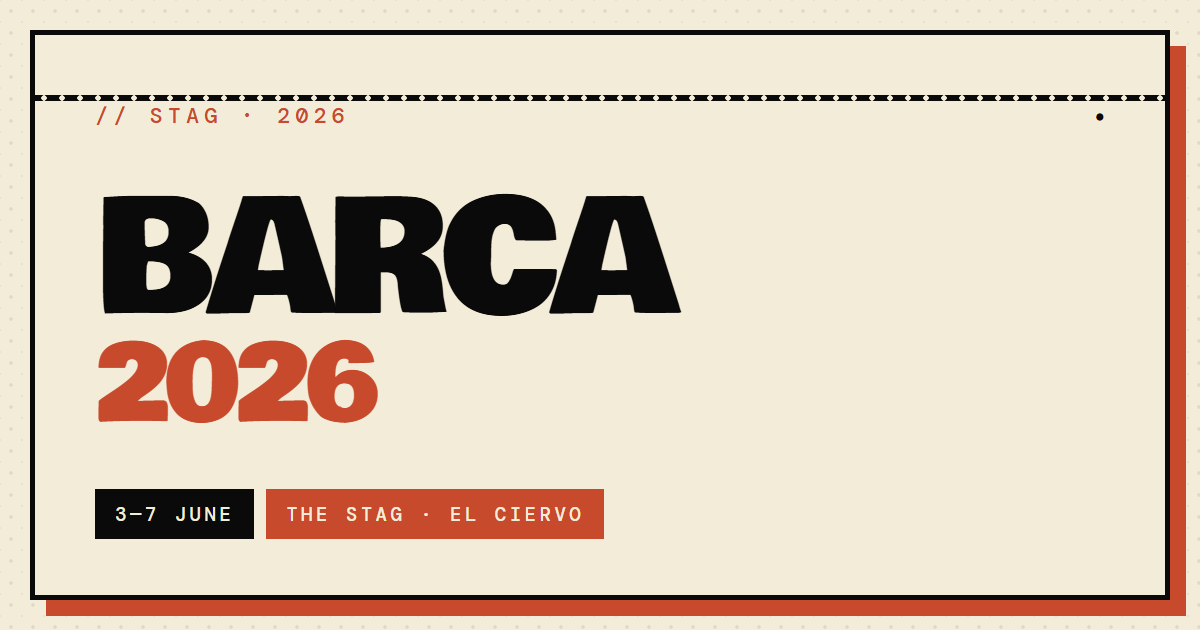
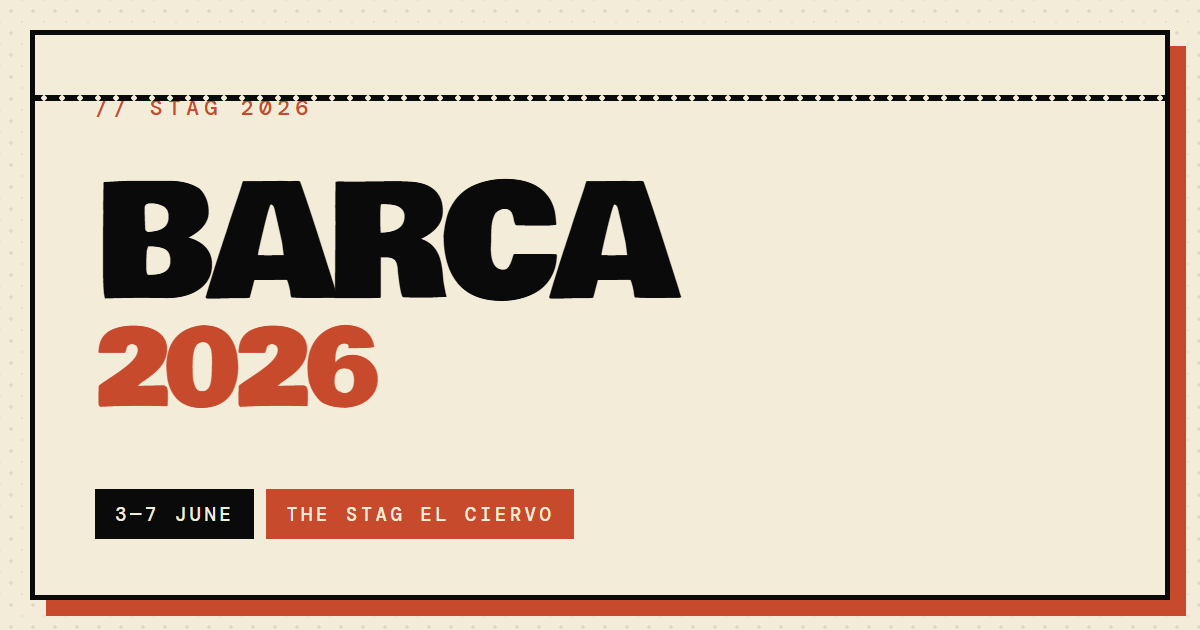
feat(web): per-stag palette on landing cards, drop middle-dot punctuation
- Landing cards now use each stag's accent as their base background:
  BCN card → orange (#c84a2c), STHLM card → blue (#2c5f7c). Text is
  the paper colour, hover-shadow is ink (not the global magenta accent),
  so the cards read as distinct identity blocks not generic tiles.
- Card "where" headline bumped to 44px Bowlby One for more impact.
- Number chip flipped to ink-on-paper so it stays legible on the
  accent fill.
- "Stags·" → "Stags" on the title, "June · 2026" → "June 2026" on the
  card date line. OG card chips also dropped their middle dots
  ("THE STAG · EL CIERVO" → "THE STAG EL CIERVO" etc.) and OG eyebrow
  ("// STAG · 2026" → "// STAG 2026").

Changed region(s): [[0.0617, 0.2714, 0.5858, 0.6937], [0.3392, 0.754, 0.5242, 0.8746], [0.0617, 0.1508, 0.2775, 0.2111]]

diff --git a/web/src/styles/stag.css b/web/src/styles/stag.css
@@ -1370,17 +1370,20 @@ body.editing .slot-edit-icons { display: flex; flex-wrap: wrap; }
 }
 .landing-card {
   display: block;
-  background: var(--paper);
+  background: var(--card-accent, var(--accent));
   border: 2px solid var(--ink);
   padding: 22px 20px 20px;
   text-decoration: none;
-  color: var(--ink);
+  color: var(--paper);
   position: relative;
   transition: transform 0.1s, box-shadow 0.1s;
 }
+.landing-card--bcn   { --card-accent: #c84a2c; }
+.landing-card--sthlm { --card-accent: #2c5f7c; }
+
 .landing-card:hover {
-  transform: translate(-2px, -2px);
-  box-shadow: 8px 8px 0 var(--accent);
+  transform: translate(-3px, -3px);
+  box-shadow: 8px 8px 0 var(--ink);
 }
 .landing-card:active {
   transform: translate(2px, 2px);
@@ -1389,35 +1392,37 @@ body.editing .slot-edit-icons { display: flex; flex-wrap: wrap; }
 .landing-card-num {
   position: absolute;
   top: -10px; left: 12px;
-  background: var(--paper);
+  background: var(--ink);
+  color: var(--paper);
   font-family: 'DM Mono', monospace;
   font-size: 11px;
   letter-spacing: 1px;
-  padding: 0 6px;
-  color: var(--ink);
+  padding: 1px 8px 0;
 }
 .landing-card-where {
   font-family: 'Bowlby One', Impact, sans-serif;
-  font-size: 36px;
+  font-size: 44px;
   line-height: 1;
   text-transform: uppercase;
   letter-spacing: -0.02em;
+  color: var(--paper);
 }
 .landing-card-when {
   font-family: 'DM Mono', monospace;
   font-size: 12px;
   letter-spacing: 2px;
   text-transform: uppercase;
-  color: var(--ash);
+  color: var(--paper);
+  opacity: 0.85;
   margin-top: 6px;
 }
 .landing-card::after {
   content: '→';
   position: absolute;
   bottom: 14px; right: 16px;
-  font-family: 'DM Mono', monospace;
-  font-size: 22px;
-  color: var(--accent);
+  font-family: 'Bowlby One', Impact, sans-serif;
+  font-size: 26px;
+  color: var(--paper);
 }
 
 /* ─── FOOTER ──────────────────────────────────────────────────────── */

diff --git a/web/src/App.tsx b/web/src/App.tsx
@@ -8,17 +8,17 @@ function Landing() {
   return (
     <div className="landing">
       <div className="landing-eyebrow">// PICK A TRIP</div>
-      <h1 className="landing-title">Stags<em>·</em></h1>
+      <h1 className="landing-title">Stags</h1>
       <div className="landing-grid">
-        <Link to="/bcn" className="landing-card">
+        <Link to="/bcn" className="landing-card landing-card--bcn">
           <div className="landing-card-num">01</div>
           <div className="landing-card-where">Barcelona</div>
-          <div className="landing-card-when">June · 2026</div>
+          <div className="landing-card-when">June 2026</div>
         </Link>
-        <Link to="/sthlm" className="landing-card">
+        <Link to="/sthlm" className="landing-card landing-card--sthlm">
           <div className="landing-card-num">02</div>
           <div className="landing-card-where">Stockholm</div>
-          <div className="landing-card-when">June · 2026</div>
+          <div className="landing-card-when">June 2026</div>
         </Link>
       </div>
     </div>
